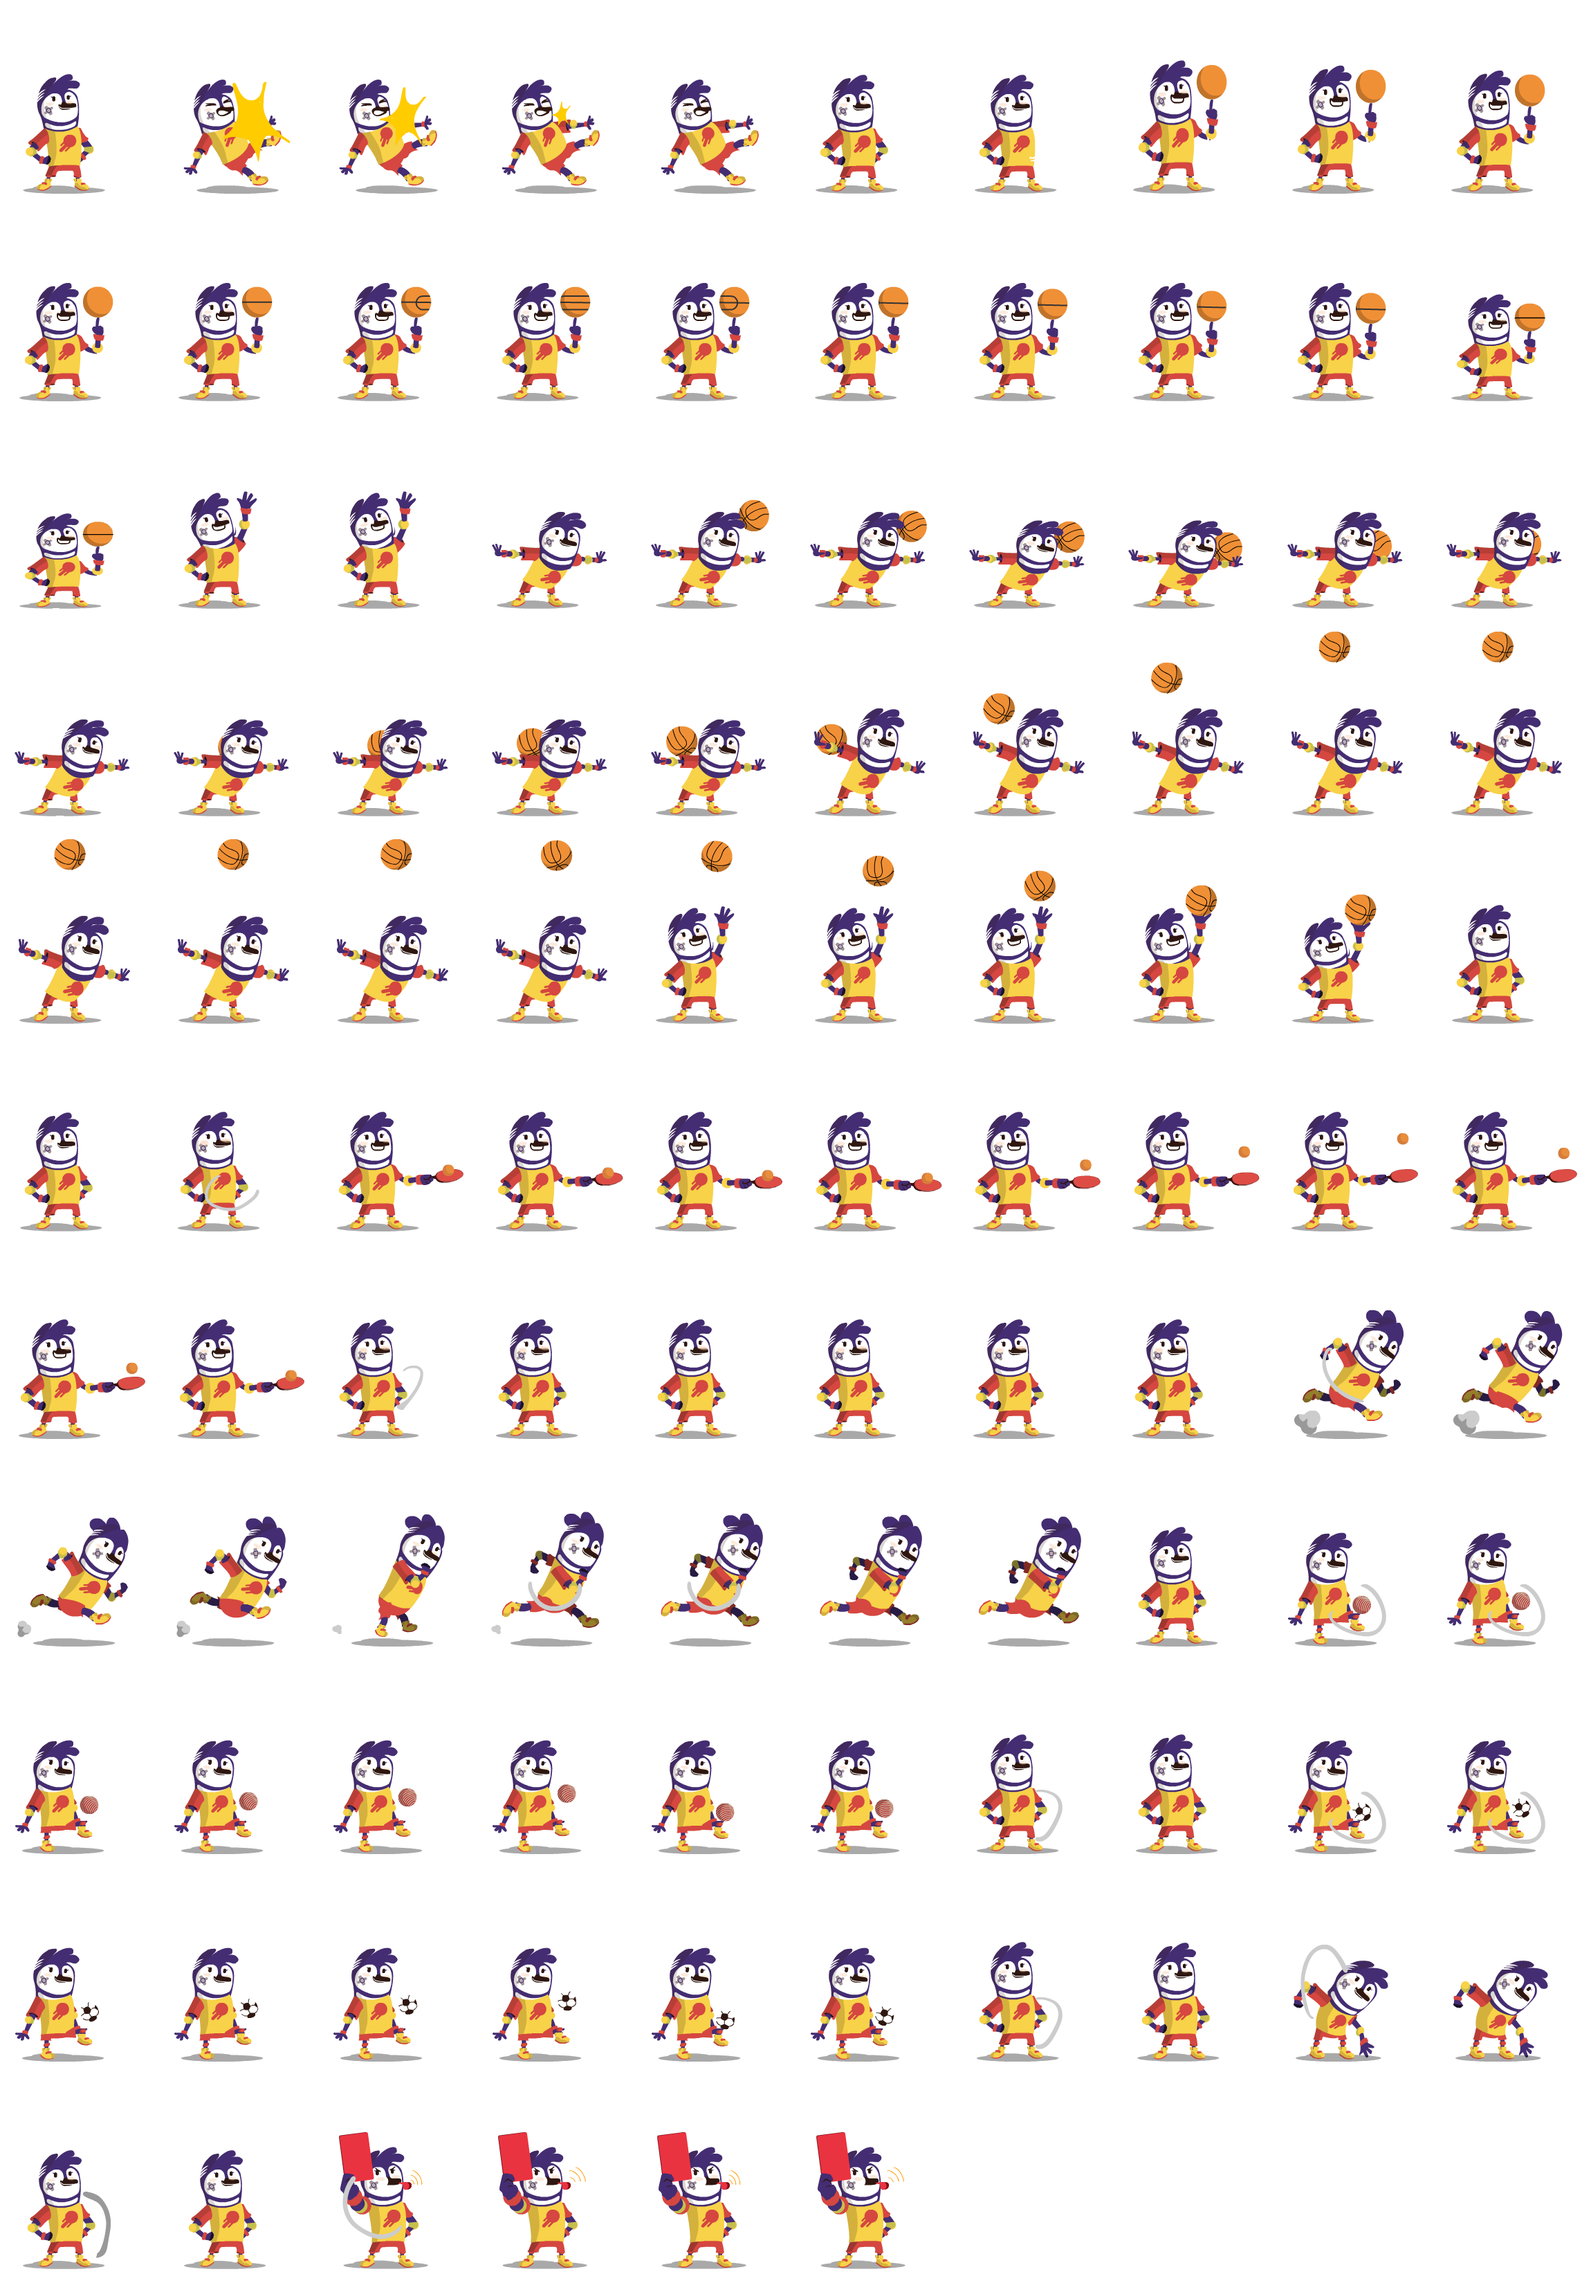
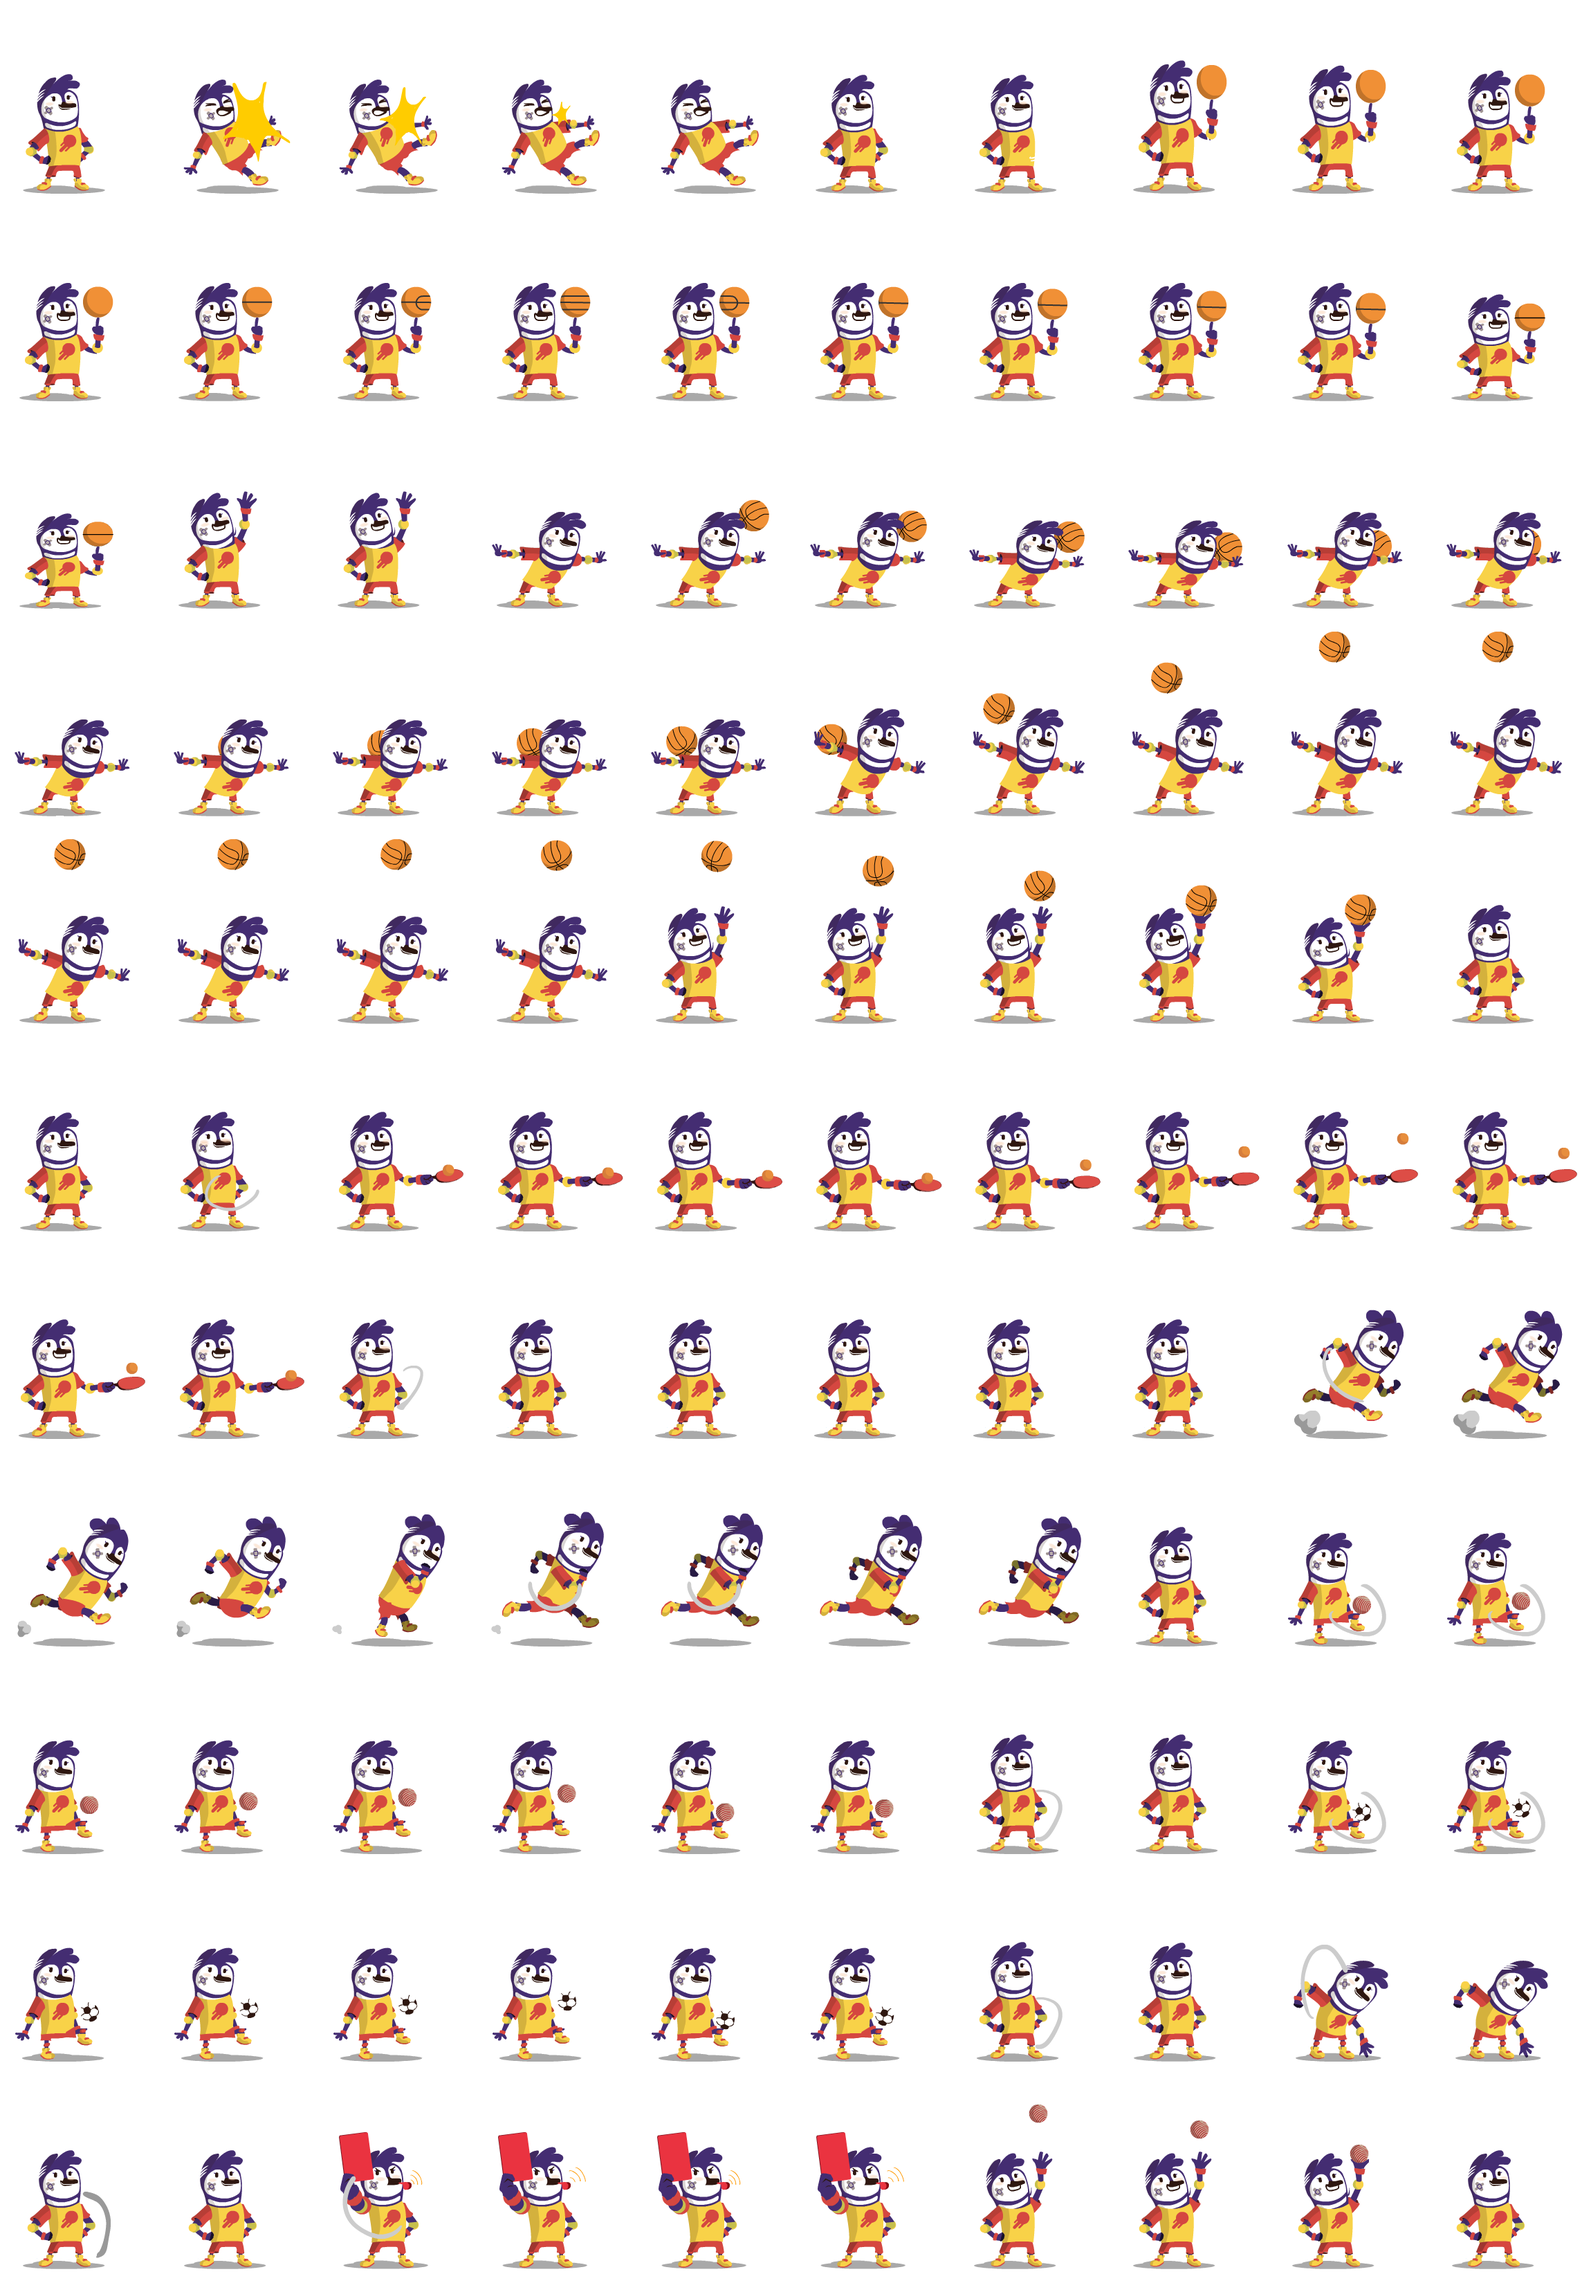
Revolear con Pulpito

diff --git a/src/escenas/ChuyHaciendoJueguito.ts b/src/escenas/ChuyHaciendoJueguito.ts
@@ -50,7 +50,6 @@ class ChuyHaciendoJueguito extends EscenaActividad {
     builder.agregarEstado('noResuelve',false);
     builder.agregarEstadoAceptacion('fin');
 
-
     builder.agregarTransicion('inicial', 'posCorrecta', 'avanzar');
     builder.agregarTransicion('posCorrecta','calentar1','retroceder');
     builder.agregarTransicion('posCorrecta','calentar2','avanzar');
@@ -61,31 +60,29 @@ class ChuyHaciendoJueguito extends EscenaActividad {
     builder.agregarTransicion('levantarPelota','jugarConElPie','rebotarPiePulpito');
     builder.agregarTransicion('tirarAlAire','resuelto','rebotarPiePulpito');
     builder.agregarTransicion('jugarConElPie','resuelto','revolearPulpito');
-    builder.agregarTransicion('resuelto','fin','volver');
+    builder.agregarTransicion('resuelto','fin','retroceder');
     
     builder.agregarError('inicial', 'recoger', 'Primero hay que entrar en calor');
     builder.agregarError('inicial', 'revolearPulpito', 'Primero hay que entrar en calor y agarrar la pelota');
     builder.agregarError('inicial', 'rebotarPiePulpito', 'Primero hay que entrar en calor y agarrar la pelota');
-    builder.agregarError('inicial', 'volver', 'Primero hay que entrar en calor');
+    builder.agregarError('inicial', 'retroceder', 'Primero hay que avanzar y entrar en calor');
 
     builder.agregarError('posCorrecta', 'recoger', 'Primero hay que entrar en calor');
     builder.agregarError('posCorrecta', 'revolearPulpito', 'Primero hay que entrar en calor y agarrar la pelota');
     builder.agregarError('posCorrecta', 'rebotarPiePulpito', 'Primero hay que entrar en calor y agarrar la pelota');
-    builder.agregarError('posCorrecta', 'volver', 'Primero hay que entrar en calor');
 
     builder.agregarError('calentar1', 'revolearPulpito', 'Primero hay que entrar en calor y agarrar la pelota');
     builder.agregarError('calentar1', 'rebotarPiePulpito', 'Primero hay que entrar en calor y agarrar la pelota');
-    builder.agregarError('calentar1', 'volver', 'Primero hay que entrar en calor y agarrar la pelota');
+    builder.agregarError('calentar1', 'retroceder', 'Primero hay que avanzar, entrar en calor y agarrar la pelota');
 
     builder.agregarError('calentar2', 'revolearPulpito', 'Primero hay que entrar en calor y agarrar la pelota');
     builder.agregarError('calentar2', 'rebotarPiePulpito', 'Primero hay que entrar en calor y agarrar la pelota');
-    builder.agregarError('calentar2', 'volver', 'Primero hay que entrar en calor y agarrar la pelota');
 
     builder.agregarError('enCalor', 'revolearPulpito', 'Primero hay que agarrar la pelota');
     builder.agregarError('enCalor', 'rebotarPiePulpito', 'Primero hay que agarrar la pelota');
-    builder.agregarError('enCalor', 'volver', 'Primero hay que agarrar la pelota');
+    builder.agregarError('enCalor', 'retroceder', 'Primero hay que agarrar la pelota');
 
-    builder.agregarError('levantarPelota', 'volver', 'Primero hay que jugar con la pelota');
+    builder.agregarError('levantarPelota', 'retroceder', 'Primero hay que jugar con la pelota');
 
     this.estado = builder.estadoInicial();
   }

diff --git a/src/actores/segundoCiclo/Chuy/Chuy.ts b/src/actores/segundoCiclo/Chuy/Chuy.ts
@@ -21,7 +21,8 @@ class Chuy extends ActorAnimado {
         this.definirAnimacion("obstaculo", [0, 1, 1, 2, 2, 3, 3, 4, 4, 4], 12)
         this.definirAnimacion("error", [101, 101, 101, 102, 102, 103, 103, 104, 104, 105, 105, 105, 105, 105, 105, 105, 105, 105, 105], 12)
         this.definirAnimacion("recoger", [97, 98, 99, 99, 99, 99, 99, 99, 99, 99, 99, 99, 100, 97], 12);
-        this.definirAnimacion("revolearPulpito", [21, 22, 22, 22, 22, 22, 22, 23, 24, 25, 26, 27, 28, 29, 30, 31, 32, 32, 33, 33, 34, 35, 36, 37, 38, 39, 40, 41, 42, 43, 44], 10);
+        this.definirAnimacion("revolearPulpito", [ 97,  97,  97, 109, 109, 109, 108, 108, 108, 107, 107, 107, 106, 106, 106, 107, 107, 107, 108, 108, 108, 109, 109, 109,
+                                                  109, 109, 109, 108, 108, 108, 107, 107, 107, 106, 106, 106, 107, 107, 107, 108, 108, 108, 109, 109, 109,  97,  97,  97], 12);
         this.definirAnimacion("usarPaleta", [51, 52, 53, 54, 55, 56, 57, 58, 57, 56, 55, 56, 57, 58, 57, 56, 55, 56, 57, 58, 57, 56, 55, 56, 55, 56, 57, 58, 59, 60, 61, 62, 63, 64, 65, 66, 67], 12);
         this.definirAnimacion("usarPaletaUnaVez", [51, 52, 53, 54, 55, 56, 57, 58, 59, 60, 61, 62, 63, 64, 65, 66, 67], 6);
         this.definirAnimacion("rebotarPelota", [87, 88, 89, 90, 91, 92, 93, 92, 91, 90, 94, 95, 90, 91, 92, 93, 91, 94, 91, 93, 90, 94, 96, 87, 87, 87, 87], 12); 
